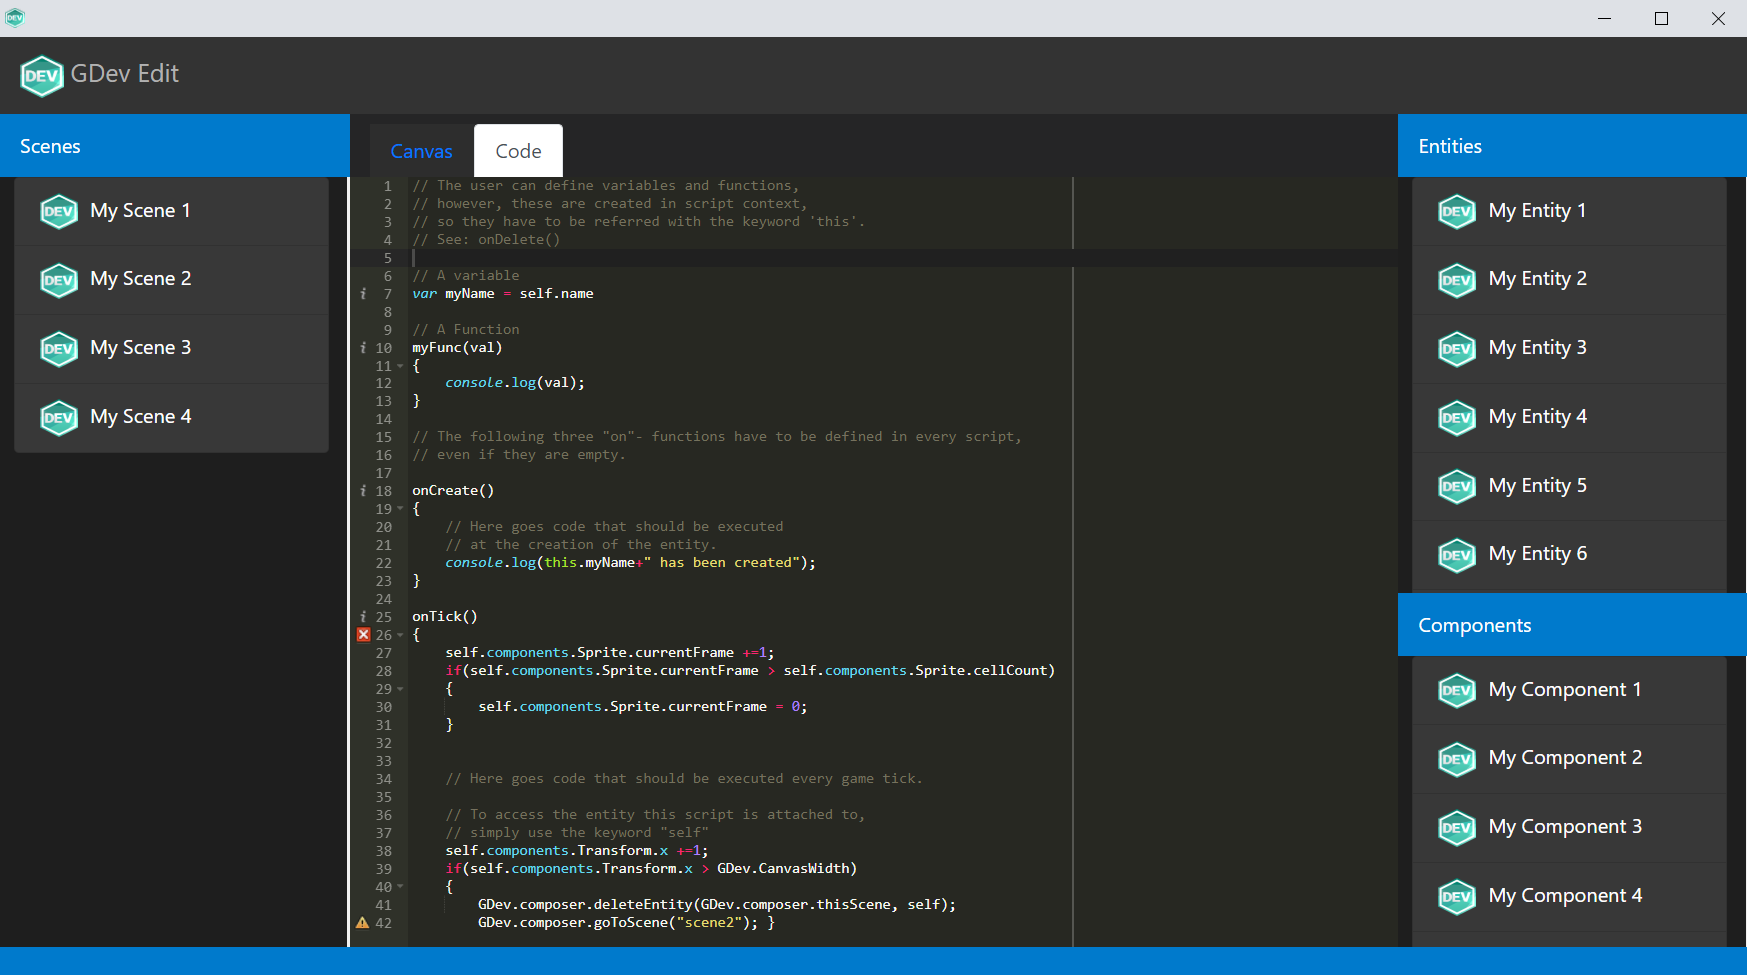
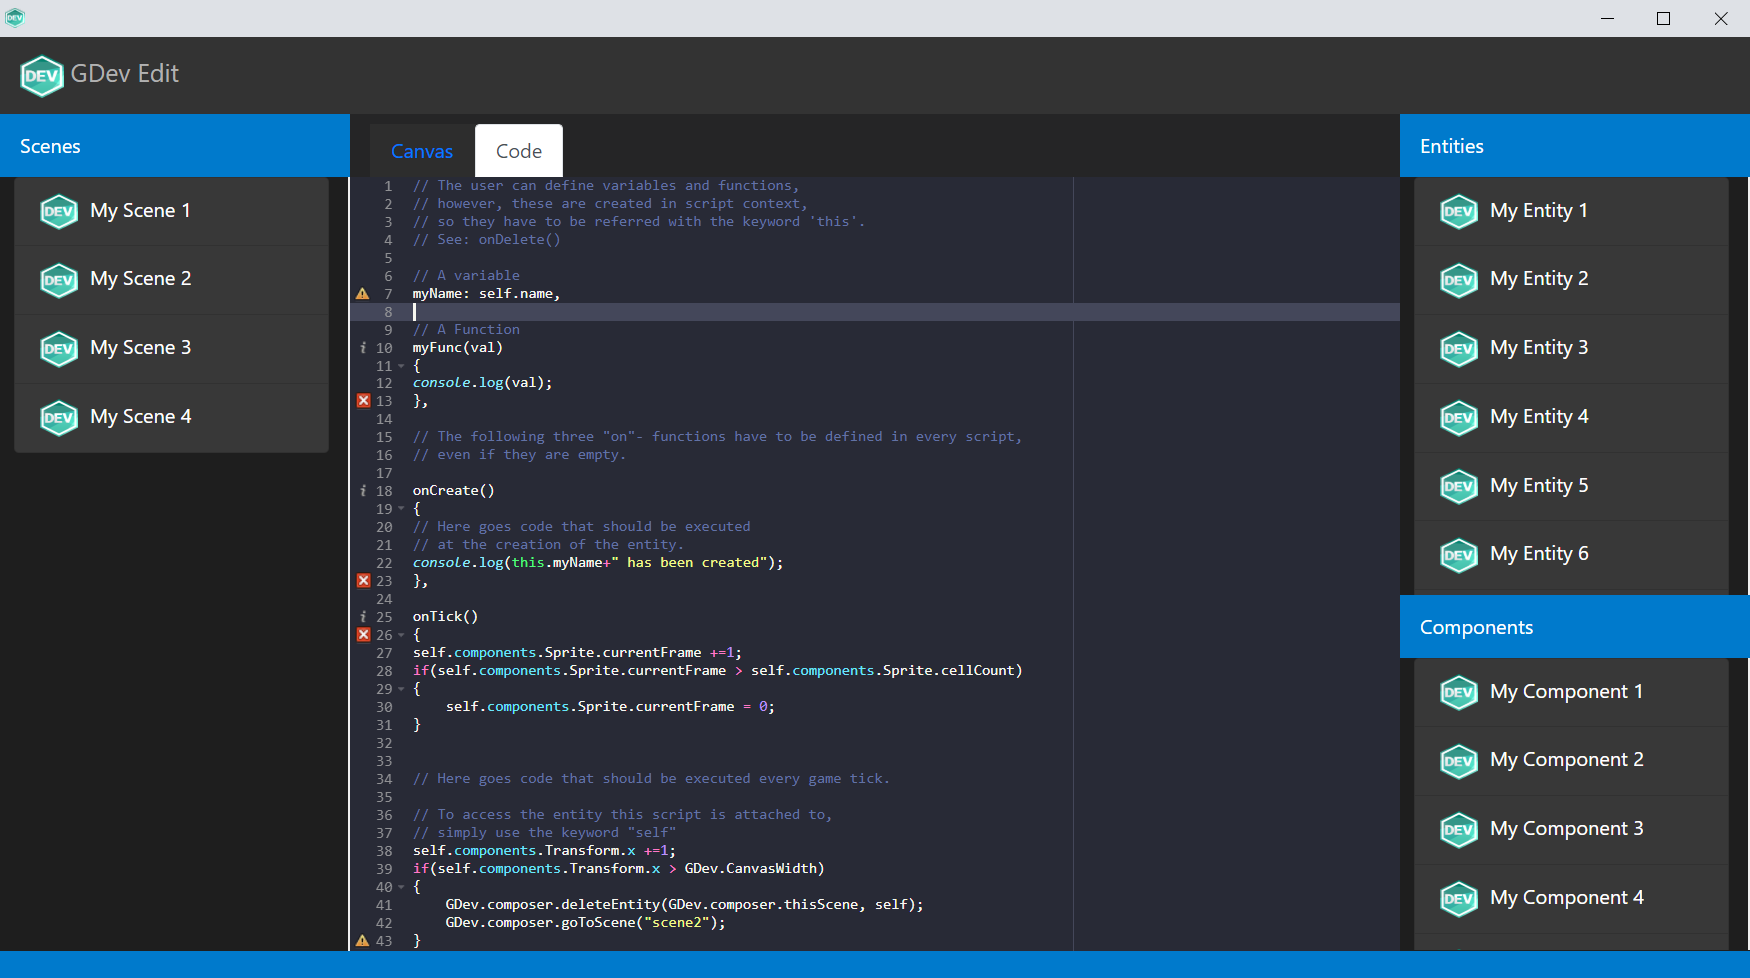
Changed editor image for readme

diff --git a/editor/web/editor.html b/editor/web/editor.html
@@ -95,7 +95,7 @@
 		<script src="editor.js"></script>
 		<script>
 			var editor = ace.edit("code-editor");
-			editor.setTheme("ace/theme/monokai");
+			editor.setTheme("ace/theme/dracula");
 			editor.session.setMode("ace/mode/javascript");
 		</script>
 	</body>
